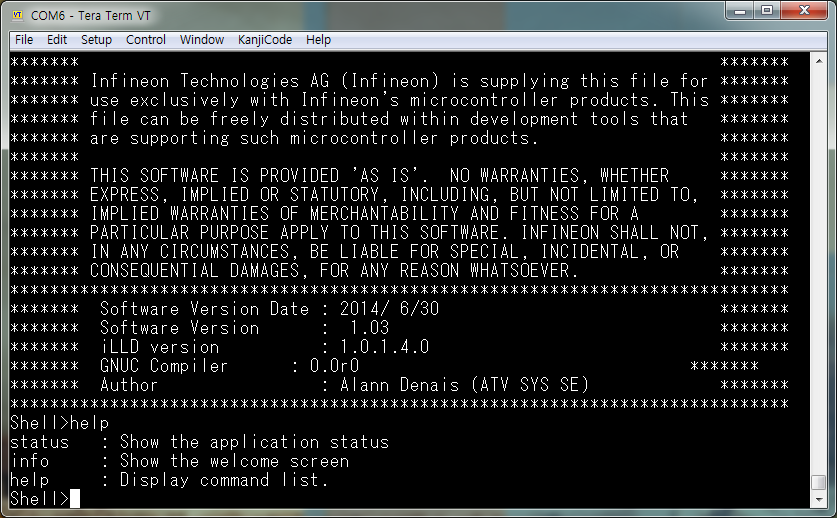
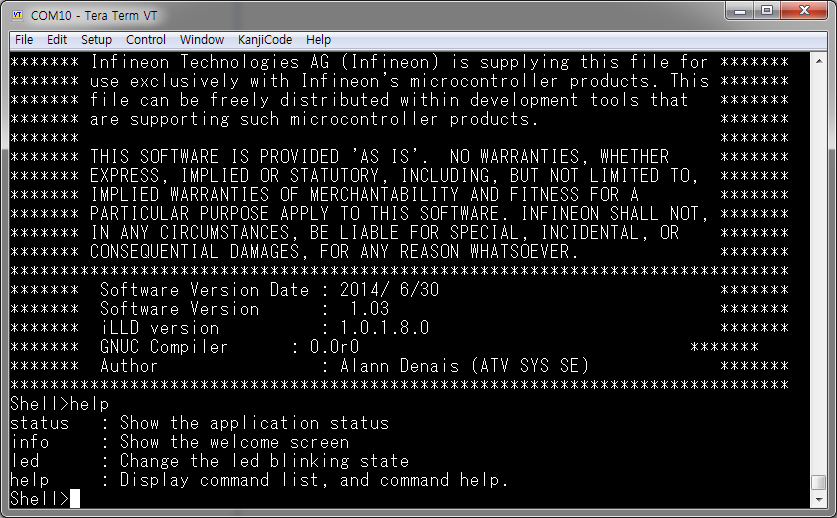
My own terminal 메뉴얼 업데이트

diff --git a/src/MyApp/MyIlldModule/0_Src/AppSw/MyIlldModule/AsclinShell/Demo_Illd/AsclinShellInterface.c b/src/MyApp/MyIlldModule/0_Src/AppSw/MyIlldModule/AsclinShell/Demo_Illd/AsclinShellInterface.c
@@ -73,7 +73,7 @@ boolean AppShell_led(pchar args, void *data, IfxStdIf_DPipe *io);
 const Ifx_Shell_Command AppShell_commands[] = {
     {"status", "   : Show the application status", &g_AsclinShellInterface,       &AppShell_status,    },
     {"info",   "     : Show the welcome screen",   &g_AsclinShellInterface,       &AppShell_info,      },
-	{"led", "       : Change the led blinking state", &g_AsclinShellInterface,       &AppShell_led,    },
+	{"led", "      : Change the led blinking state", &g_AsclinShellInterface,       &AppShell_led,    },
     {"help",   SHELL_HELP_DESCRIPTION_TEXT,        &g_AsclinShellInterface.shell, &Ifx_Shell_showHelp, },
     IFX_SHELL_COMMAND_LIST_END
 };
@@ -174,43 +174,6 @@ IFX_INTERRUPT(asclin3ErISR, 0, ISR_PRIORITY_ASC_3_EX)
  * - This interrupt is raised each time a data have been received on the serial interface.
  *   and Asc_If_receiveIrq() will be called
  */
-void ISR_Asc_0_rx(void)
-{
-    IfxCpu_enableInterrupts();
-    IfxStdIf_DPipe_onReceive(&g_AsclinShellInterface.stdIf.asc);
-}
-
-
-/** \brief Handle Asc0 Tx interrupt
- *
- * \isrProvider \ref ISR_PROVIDER_ASC_0
- * \isrPriority \ref ISR_PRIORITY_ASC_0_TX
- *
- * - Configuration of this interrupt is done by Asc_If_init()
- * - This interrupt is raised each time the serial interface transmit buffer get empty
- *   and Asc_If_transmitIrq() will be called
- */
-void ISR_Asc_0_tx(void)
-{
-    IfxCpu_enableInterrupts();
-    IfxStdIf_DPipe_onTransmit(&g_AsclinShellInterface.stdIf.asc);
-}
-
-
-/** \brief Handle Asc0 Ex interrupt.
- *
- * \isrProvider \ref ISR_PROVIDER_ASC_0
- * \isrPriority \ref ISR_PRIORITY_ASC_0_EX
- *
- * - Configuration of this interrupt is done by Asc_If_init()
- * - This interrupt is raised each time an error occurs on the serial interface and
- *   Asc_If_errorIrq() will be called.
- */
-void ISR_Asc_0_ex(void)
-{
-    IfxCpu_enableInterrupts();
-    IfxStdIf_DPipe_onError(&g_AsclinShellInterface.stdIf.asc);
-}
 
 
 /** \addtogroup IfxLld_Demo_AsclinShellInterface_SrcDoc_Main_Interrupt
